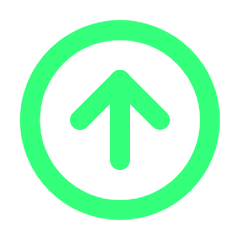
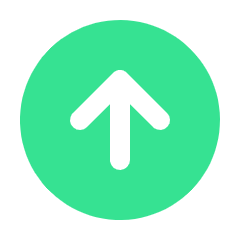
nuevo boton

diff --git a/css/style.css b/css/style.css
@@ -103,6 +103,10 @@ li {
     border-top: 1px solid rgba(99, 241, 194, 0.096);
 }
 
+.navegacion__enlace:active {
+    background-color: #19948a;
+}
+
 @media (min-width: 768px) {
     .navegacion {
         flex-direction: row;
@@ -115,22 +119,16 @@ li {
         z-index: 1000;
     }
 
+    .navegacion__enlace:hover {
+        background-color: #19948a; /* Color de fondo cuando se hace hover o está activo */
+    }
+
     .navegacion__enlace {
         padding: 2rem; /* Añadide padding */
         height: 6rem; /* Altura adecuada para los enlaces */
         width: auto; /* Elimina el width 100% en pantallas grandes para permitir espacio */
         border-bottom: 0;
     }
-}
-
-
-.navegacion__enlace:hover {
-    background-color: #19948a; /* Color de fondo cuando se hace hover o está activo */
-}
-
-.navegacion__enlace:focus {
-    background-color: initial; /* Restablecer el color tras el clic */
-    outline: none; /* Eliminar borde de enfoque predeterminado */
 }
 
 .section {
@@ -445,7 +443,7 @@ font-size: 16px;
     text-transform: uppercase;
 }
 
-.up {
+.up-boton {
     position: fixed;
     bottom: 5rem;
     right: .05rem;
@@ -453,11 +451,23 @@ font-size: 16px;
     border: none;
     cursor: pointer;
     z-index: 100; /* Asegúrate de que esté encima de otros elementos */
+    transition: transform 0.5s ease; /* Transición suave */
+    text-shadow: 2px 2px 4px rgba(0, 0, 0, 0.5);
 }
 
-.up img {
+.up-boton:active {
+    transform: scale(1.2);
+}
+
+.up-boton img {
     width: 40px;
     height: auto;
+}
+
+@media (min-width: 768px) {
+    .up-navegacion {
+        display: none
+    }
 }
 
 .footer {

diff --git a/index.html b/index.html
@@ -16,7 +16,7 @@
     </header>
     
     
-    <nav class="navegacion">
+    <nav id="navegacion" class="navegacion">
         <a href="#lagoa" class="navegacion__enlace" 
         onclick="event.preventDefault(); scrollToElement('lagoa', 10)">Lagoa das Sete</a>
         <a href="#Furnas" class="navegacion__enlace" onclick="scrollToElement('furnas', 10)">Furnas</a>
@@ -981,7 +981,7 @@
                                 </a>
                         </div>
                     </li>
-                </ul>                
+                </ul>     
             </div>
         </section>
 
@@ -1007,9 +1007,11 @@
             </div>
         </div>
 
-        <button class="up">
-            <img src="/img/botton-arrow-up.png" alt="boton up">
-        </button>
+        <a href="#navegacion" class="up-navegacion">
+            <button class="up-boton">
+                <img src="/img/botton-arrow-up.png" alt="boton up">
+            </button>
+        </a>
 
         <footer class="footer">
             <p>Casi todos los derechos reservados ©</p>

diff --git a/README.md b/README.md
@@ -34,4 +34,4 @@ Este proyecto es una guía turística de la isla de **San Miguel** en las **Azor
    git clone https://github.com/tuusuario/guia-san-miguel-azores.git
   
 
-**Importante: en el script.js pon tu propia API Key.**
+**Importante: en el script.js pon tu propia API Key de openweathermap.**
